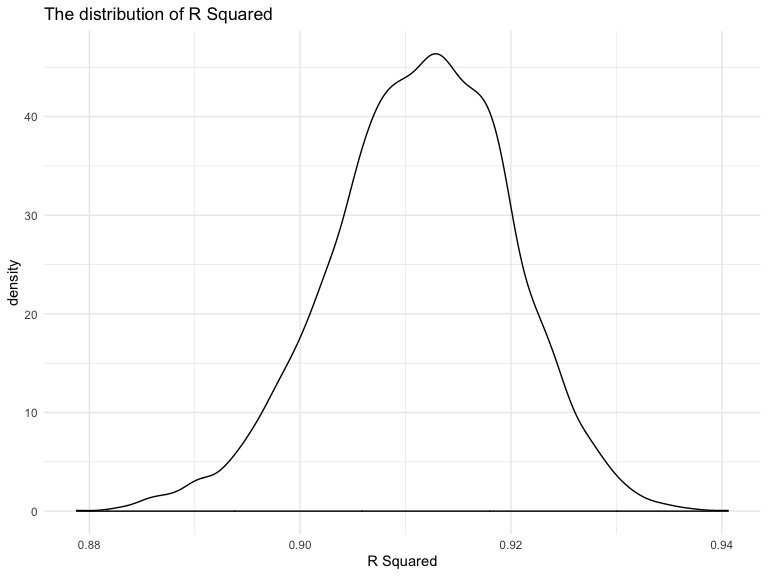
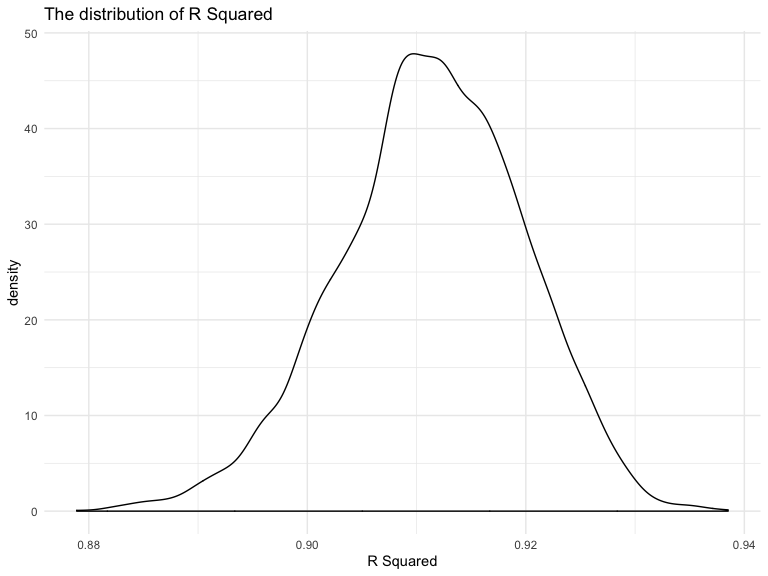
final version

diff --git a/p8105_hw6_yy2912.md b/p8105_hw6_yy2912.md
@@ -46,9 +46,25 @@ filter(is.na(bwt))
 there is no missing data in this dataset
 
 proposed model: the model I proposed include several factors that may
-associate with baby’s birthweight. baby’s birthweights may be associated
-with baby’s sex, baby’s head circumferences, mother’s weight at
-delivery, mother’s age at delivery, mother’s pre-pregnancy
+associate with baby’s birthweight:
+
+\*baby’s sex: boys may have higher birthweight than girls
+
+\*baby’s head circumferences: babies with larger head circumferences may
+have higher weight
+
+\*mother’s weight at delivery: mothers who have higher weigth at
+delivery may have babies with higher birthweight
+
+\*mother’s age at delivery: the younger the mother is, the baby may have
+higher the weight
+
+\*mother’s pre-pregnancy BMI: the higher the mother’s pre-pregnancy BMI,
+there’s a possibility that the baby will have higher the birthweight
+
+baby’s birthweights may be associated with baby’s sex, baby’s head
+circumferences, mother’s weight at delivery, mother’s age at delivery,
+mother’s pre-pregnancy
 BMI.
 
 ``` r
@@ -208,7 +224,7 @@ quantile(pull(bootstrap_samples, r.squared),c(0.025,0.975))
 ```
 
     ##      2.5%     97.5% 
-    ## 0.8935952 0.9271307
+    ## 0.8937755 0.9268804
 
 Based on the plot, r squared follows a normal distribution with a slight
 left skewedness. The 95% CI of r squared lies between 0.89 and 0.93.
@@ -230,7 +246,7 @@ quantile(pull(bootstrap_samples_new, log_beta),c(0.025,0.975))
 ```
 
     ##     2.5%    97.5% 
-    ## 1.965906 2.058429
+    ## 1.965778 2.058407
 
 From the plot, log(β<sup>0*β^1) roughly follows a normal distribution.
 The 95% CI of log(β^0*β</sup>1) lies between 1.97 and 2.06.
